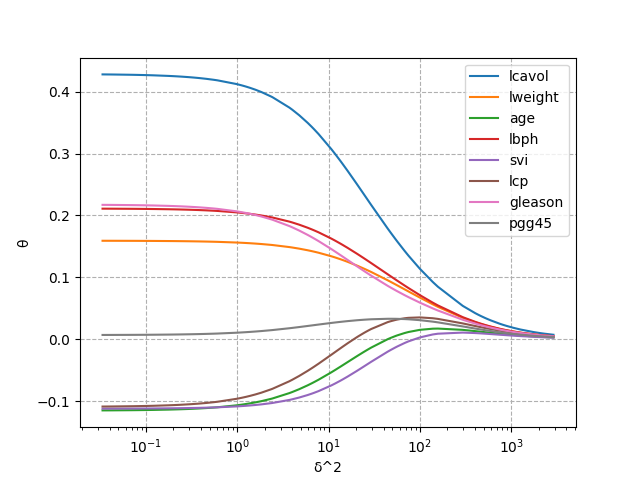
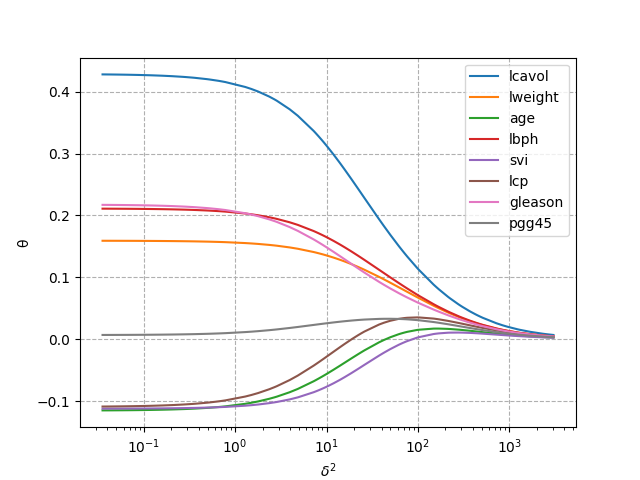
fix the bias

diff --git a/assignment1/regularized_linear_regression.py b/assignment1/regularized_linear_regression.py
@@ -10,7 +10,6 @@ import unittest
 
 import numpy as np
 import matplotlib.pyplot as plt
-from datetime import datetime
 
 
 data_file = 'prostate.data'
@@ -49,10 +48,13 @@ def ridge(X, y, d2):
         - y: train target. y.shape=(m,)
         - d2: ridge regularization strength, is a real number.
     Returns:
-        - optimal theta. shape=(n,)
+        - optimal theta. shape=(n+1,)
     """
-    n = X.shape[1]
-    t = np.linalg.inv(X.T @ X + d2 * np.eye(n))  # t.shape=(n, n)
+    m, n = X.shape
+    X = np.c_[X, np.ones(m)]  # append an all one column for bias
+    reg = d2 * np.eye(n + 1)
+    reg[n, n] = 0  # do not regularize bias
+    t = np.linalg.inv(X.T @ X + reg)
     return t @ (X.T @ y)
 
 
@@ -64,7 +66,7 @@ def train(X, y, k=100):
         - k: number of delta to try
     Returns:
         - d2_candidates: delta tried. d2_candidates.shape=(k,)
-        - estimates: best theta for each delta. shape=(k, n) where n is number of features
+        - estimates: best theta for each delta. shape=(k, n+1) where n is number of features
     """
     d2_candidates = np.sort(np.random.uniform(-1.5, 3.5, k))
     estimates = [ridge(X, y, 10 ** d2) for d2 in d2_candidates]
@@ -76,19 +78,21 @@ def predict(X, y, y_bar, theta):
     Predict target value, and returns the prediction error.
 
     Assume m is the number of input data points, n is the number of features,
-    and k is the number of estimated models using different hyperparameter, i.e, the regularization strength.
+    and k is the number of estimated models using different regularization strength.
 
     Args:
         - X: input data. shape=(m, n)
         - y: true target. shape=(m,)
         - y_bar: mean of training targets.
-        - theta: estimated model parameters. shape=(k, n)
+        - theta: estimated model parameters. shape=(k, n+1)
 
     Returns:
          - prediction error. shape=(k,)
     """
-    predict = theta @ X.T + y_bar  # shape=(k, m)
-    error = np.linalg.norm(predict - y, axis=1) / np.linalg.norm(y)
+    m, _ = X.shape
+    X = np.c_[X, np.ones(m)]
+    y_hat = theta @ X.T + y_bar  # shape=(k, m)
+    error = np.linalg.norm(y_hat - y, axis=1) / np.linalg.norm(y)
     return error
 
 
@@ -101,14 +105,14 @@ def plot_regularization_path(d2, estimates):
         - estimates: best model parameters estimated. shape=(k, n) where n is number of features.
     """
     _, ax = plt.subplots()
-    n = estimates.shape[1]  # number of attributes
+    n = estimates.shape[1] - 1  # number of attributes
     for i in range(n):
         ax.plot(10 ** d2, estimates[:, i])
     ax.set_xscale('log')
     ax.set_xlabel(r'$\delta^2$')
     ax.set_ylabel('θ')
     labels = np.loadtxt(data_file, max_rows=1, dtype=str)
-    ax.legend(labels)
+    ax.legend(labels[:-1])
     ax.grid(True, linestyle='dashed')
     plt.show()
 
@@ -129,7 +133,7 @@ def plot_error(d2, train_error, test_error):
     ax.plot(best, np.min(test_error), 'g^')
     ax.set_xscale('log')
     ax.set_xlabel(f'$\delta^2$ best={best:.4f}')
-    ax.set_ylabel('$||y - Xθ|_2|/||y||_2$')
+    ax.set_ylabel('$||y - Xθ||_2|/||y||_2$')
     ax.grid(True, linestyle='dashed')
     ax.legend()
     plt.show()
